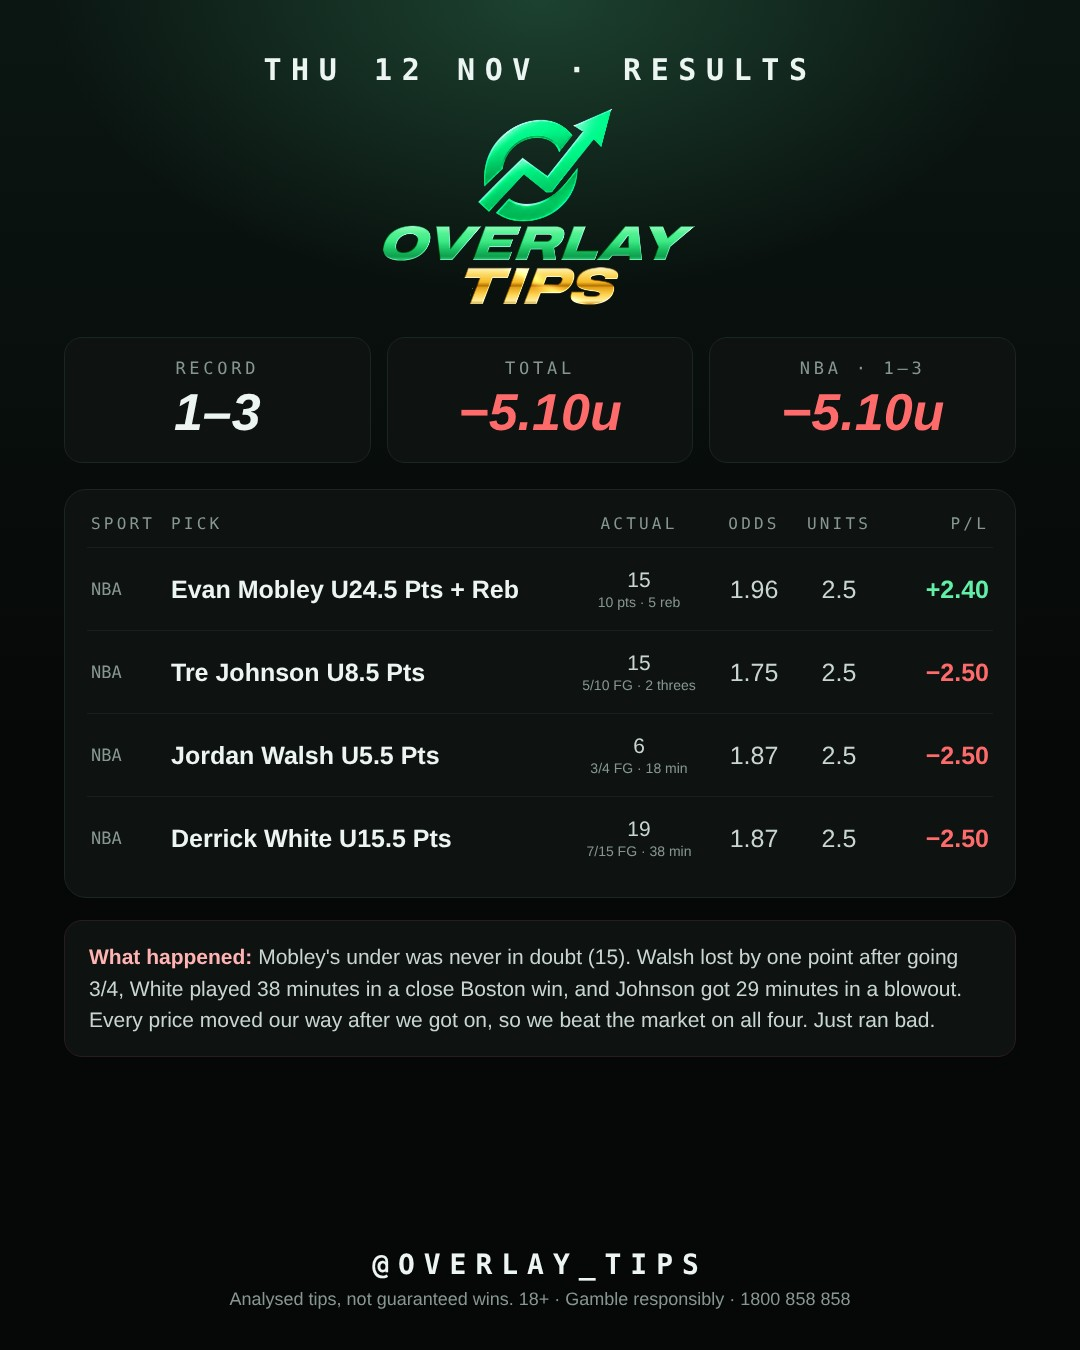
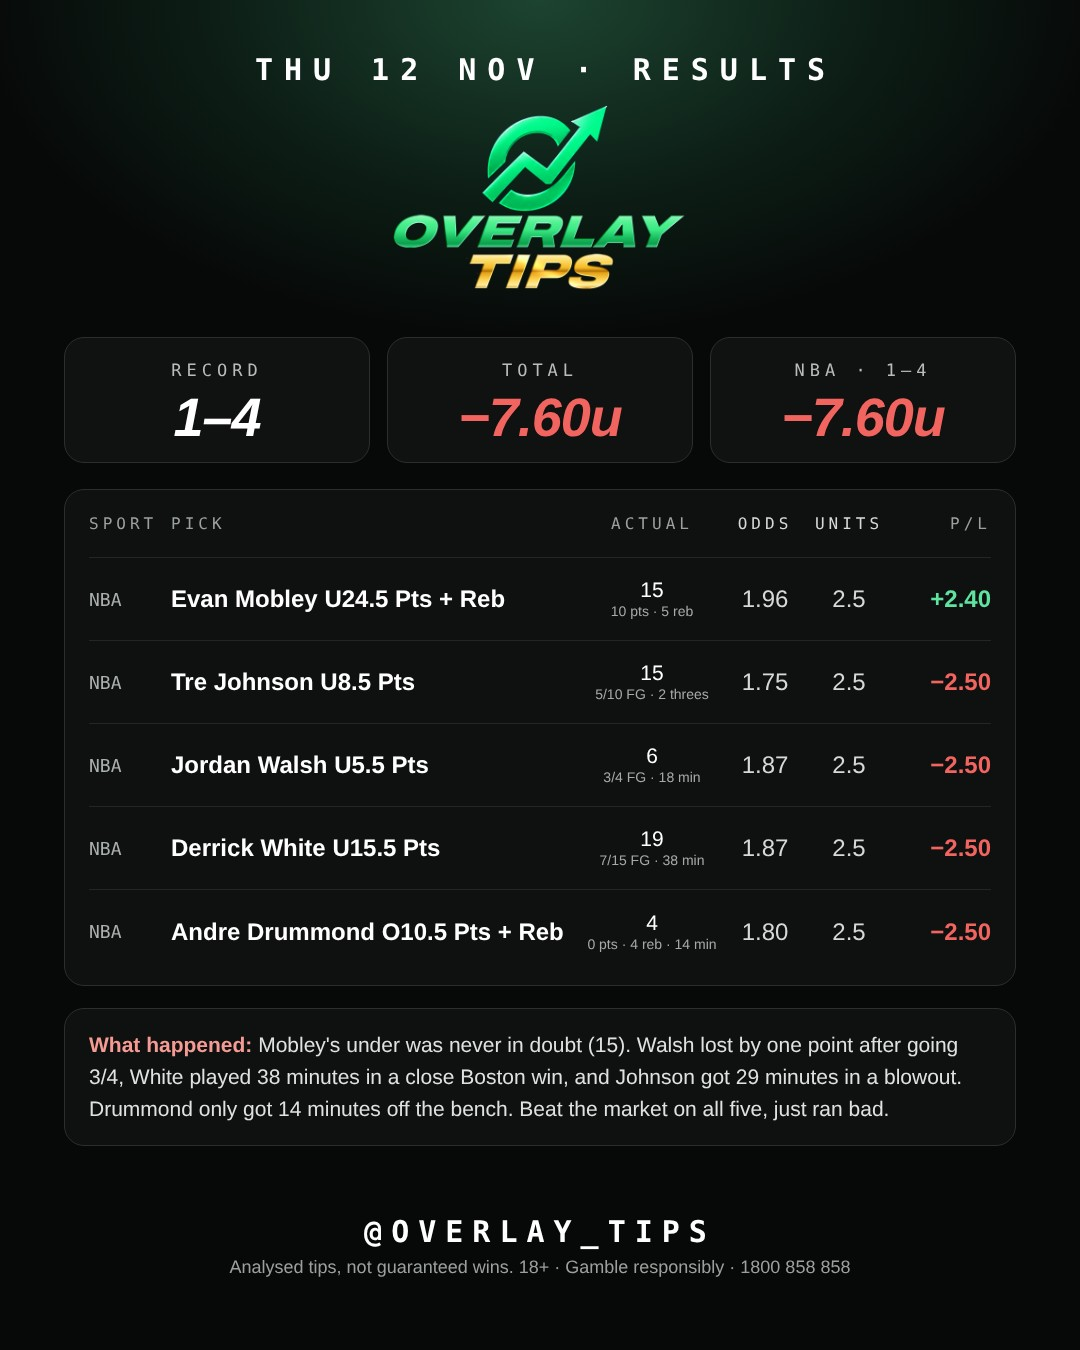
Results: add Drummond O10.5 P+R to Thu 12 Nov (NBA 1-4, -7.60U, month +68.54U)
Claude-Session: https://claude.ai/code/session_01NTsa8Hn7tQbW4gJ3qzh4Pd

diff --git a/index.html b/index.html
@@ -114,12 +114,12 @@
       <div class="chart-top">
         <div>
           <div class="mono">November · month to date</div>
-          <div class="big" id="bigNum">+71.04U</div>
-          <div class="sub"><b>$710 profit</b> for a $10 unit punter</div>
+          <div class="big" id="bigNum">+68.54U</div>
+          <div class="sub"><b>$685 profit</b> for a $10 unit punter</div>
         </div>
         <span class="live"><span class="dot"></span>TRACKED</span>
       </div>
-      <svg id="curve" viewBox="0 0 520 220" role="img" aria-label="Cumulative profit in units across November: from 0 to plus 71.04 units over eleven days">
+      <svg id="curve" viewBox="0 0 520 220" role="img" aria-label="Cumulative profit in units across November: from 0 to plus 68.54 units over eleven days">
         <defs>
           <linearGradient id="fade" x1="0" y1="0" x2="0" y2="1">
             <stop offset="0" stop-color="#62f0a8" stop-opacity=".28"/>
@@ -260,7 +260,7 @@
       <button class="shot" data-src="res-mon.jpg"><img src="res-mon.jpg" alt="Mon 9 Nov results: −2.22U on the day, NFL 4/5 +5.88U, NBA 1/5 −8.09U"><span>Mon · NFL + NBA · −2.22U</span></button>
       <button class="shot" data-src="res-tue10.jpg"><img src="res-tue10.jpg" alt="Tue 10 Nov results: −5.05U on the day, NFL 3/5 +2.00U, NBA 1/5 −7.05U"><span>Tue · NFL + NBA · −5.05U</span></button>
       <button class="shot" data-src="res-wed11.jpg"><img src="res-wed11.jpg" alt="Wed 11 Nov results: +2.74U on the day, racing 1/2 +2.56U, NBL 1/1 +2.50U, NBA 4/9 −2.32U"><span>Wed · Racing + NBA + NBL · +2.74U</span></button>
-      <button class="shot" data-src="res-thu12.jpg"><img src="res-thu12.jpg" alt="Thu 12 Nov results: −5.10U on the day, NBA 1/4"><span>Thu · NBA · −5.10U</span></button>
+      <button class="shot" data-src="res-thu12.jpg"><img src="res-thu12.jpg" alt="Thu 12 Nov results: −7.60U on the day, NBA 1/5"><span>Thu · NBA · −7.60U</span></button>
     </div>
   </div>
 </section>
@@ -371,7 +371,7 @@
 </div>
 
 <div class="sticky" id="sticky">
-  <small><b>+71.04U this month</b>Free for the first 500</small>
+  <small><b>+68.54U this month</b>Free for the first 500</small>
   <a class="btn btn-mint" href="portal.html?signup">Join free</a>
 </div>
 
@@ -409,14 +409,15 @@ const days = [
   {d:'Wed', n:'11 Nov', what:'Racing 1-1 · NBL 1-0 · NBA 4-5', sub:'Cosmic Jinks @ $3.78 (TAB pump) · Doyle O10.5 cashed in Q1 @ 2.00 · NBA −2.32U (Tatum, Hartenstein, McCain & Josh Green cashed)', u:2.74, staked:28.00, bets:12, won:6, img:'res-wed11.jpg',
     legs:[['M. Doyle O10.5 Pts','2.00',2.5,1],['J. Tatum U7.5 Reb','1.95',2.5,1],['Hartenstein U22.5 PRA','1.80',2.5,1],['McCain O15.5 Pts+Reb','1.80',2.5,1],['Josh Green U7.5 Pts','1.72',2.5,1],['J. Brown 30+ PRA','1.76',2.5,0],['J. Brown 35+ PRA','2.95',1,0],['KAT U1.5 Threes','1.91',2,0],['Jalen Green U1.5 Threes','1.96',2.5,0],['Klay O15.5 Pts+Reb','1.80',2.5,0],['Cosmic Jinks (R6 Scone)','3.78',2,1],['Hansadios (R1 Belmont)','2.05',3,0]],
     sp:{'Horse Racing':[2.56,1,2], NBL:[2.50,1,1], NBA:[-2.32,4,9]}},
-  {d:'Thu', n:'12 Nov', what:'NBA 1-3', sub:'Mobley U24.5 Pts+Reb @ 1.96 cashed · Johnson, Walsh & White unders all went over · NBA −5.10U', u:-5.10, staked:10.00, bets:4, won:1, img:'res-thu12.jpg',
-    legs:[['E. Mobley U24.5 Pts+Reb','1.96',2.5,1],['T. Johnson U8.5 Pts','1.75',2.5,0],['J. Walsh U5.5 Pts','1.87',2.5,0],['D. White U15.5 Pts','1.87',2.5,0]],
-    sp:{NBA:[-5.10,1,4]},
+  {d:'Thu', n:'12 Nov', what:'NBA 1-4', sub:'Mobley U24.5 Pts+Reb @ 1.96 cashed · Johnson, Walsh & White unders all went over · Drummond O10.5 P+R @ 1.80 missed · NBA −7.60U', u:-7.60, staked:12.50, bets:5, won:1, img:'res-thu12.jpg',
+    legs:[['E. Mobley U24.5 Pts+Reb','1.96',2.5,1],['T. Johnson U8.5 Pts','1.75',2.5,0],['J. Walsh U5.5 Pts','1.87',2.5,0],['D. White U15.5 Pts','1.87',2.5,0],['A. Drummond O10.5 Pts+Reb','1.80',2.5,0]],
+    sp:{NBA:[-7.60,1,5]},
     review:{title:'What went wrong', notes:[
       ['J. Walsh U5.5','Finished on 6, lost by one point. Went 3/4 from the field in 18 minutes. TAB suspended the market mid-game and it still settled as a loss.'],
       ['T. Johnson U8.5','15 pts on 5/10 with 2 threes. Got 29 minutes as Washington lost 114-101, way more run than the line expected.'],
       ['D. White U15.5','19 pts and 7 ast in 38 minutes. Close Boston win (98-93) kept him on the floor the whole night.'],
-      ['The prices moved our way','Every price shortened after we got on, so we beat the market on all four. Right side of the number, just ran bad. Mobley\'s under (15 P+R) was the one that held.']],
+      ['A. Drummond O10.5 P+R','Bot picked up 1.80 at Sportsbet when every other bookie had 1.60. Only got 14 minutes off the Knicks bench (0 pts, 4 reb) in a 115-107 loss to Cleveland.'],
+      ['The prices moved our way','Every price shortened after we got on (and Drummond was 1.80 vs 1.60 everywhere else), so we beat the market on all five. Right side of the number, just ran bad. Mobley\'s under (15 P+R) was the one that held.']],
       changes:['Keep getting on early, the market agreed with every pick','Fewer unders on the same slate','Happy to leave NBA there for the day']}},
   /* legs (optional): [bet, odds, units, 1 = won / 0 = lost]   img (optional): results card image
      sp (optional): per-sport split for the "By sport" tracker: {Sport:[units, won, bets]} (won/bets null if unknown) */
